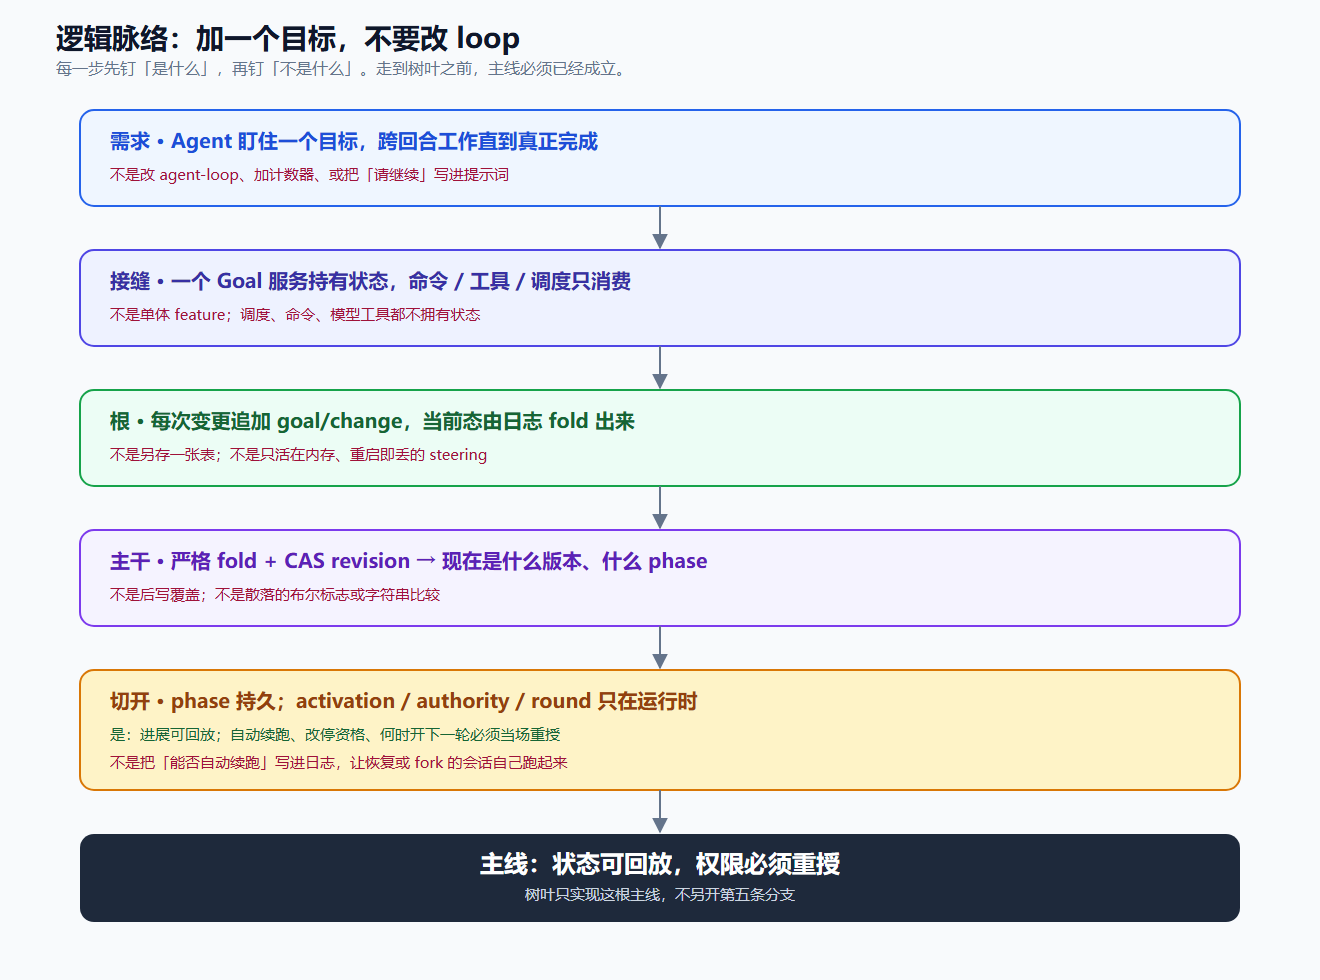
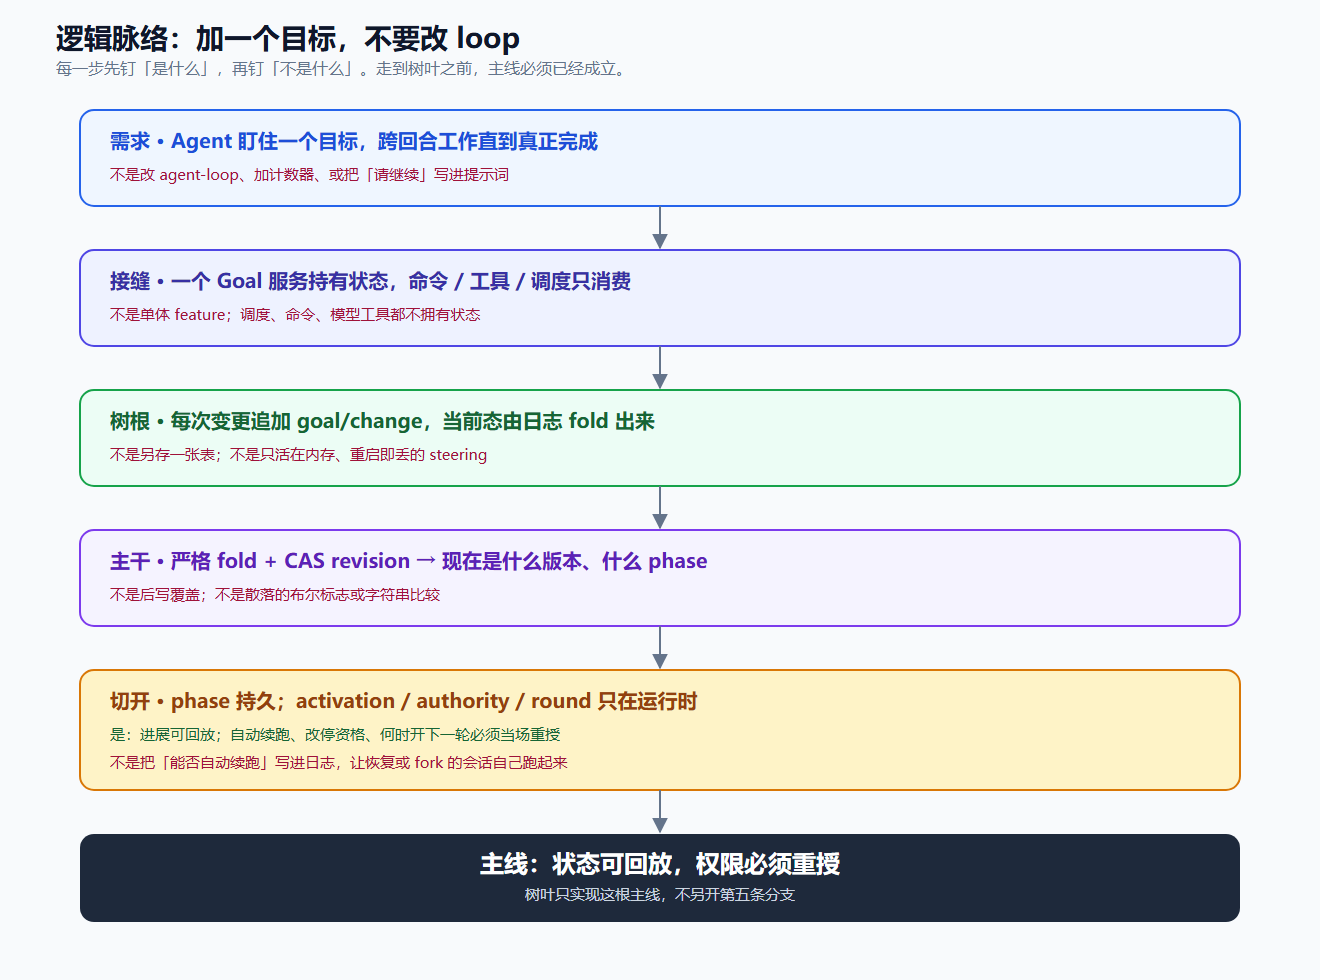
Rename tree layer 根 to 树根 in both skills
The metaphor is now 树根 → 主干 → 分支 → 树叶. Classifier 四根分支 and
root-agent stay unchanged.

Changed region(s): [[0.0932, 0.398, 0.497, 0.4592]]

diff --git a/content/tech-design-to-zhihu/SKILL.md b/content/tech-design-to-zhihu/SKILL.md
@@ -2,12 +2,12 @@
 name: tech-design-to-zhihu
 description: >-
   Write a Zhihu 专栏 from a technical design or architecture analysis. Speak
-  human Chinese, walk 是什么/不是什么 then the thread then 根/主干/分支/树叶, emit as many
+  human Chinese, walk 是什么/不是什么 then the thread then 树根→主干→分支→树叶, emit as many
   PNG figures as the argument needs (Zhihu has no mermaid/SVG), open with a
   TL;DR, close with 收获和结论 plus PS/PPS/PPPS. Use when the user asks 写成知乎文章,
   技术设计稿转知乎, 知乎长文, 知乎没有 mermaid, 说人话, 多图, TL;DR, 收获和结论, or PS PPS.
   Not a design skill — that is goal-design-principles.
-version: 1.2.0
+version: 1.2.1
 metadata:
   category: content
   created_by: agent
@@ -37,11 +37,11 @@ metadata:
 
 上一步没钉住，后面段落会散。
 
-1. **读源** — 抽出主线、是什么/不是什么、树（根/主干/分支/树叶）。源是采石场，不是逐句脚本。
+1. **读源** — 抽出主线、是什么/不是什么、树（树根 → 主干 → 分支 → 树叶）。源是采石场，不是逐句脚本。
 2. **TL;DR** — 标题下立刻给 3–5 条。扫完能走。每条一句人话，可与收获对应，但更短。
 3. **开口** — 一句人话钉主线。不要「本文拆解 packages/…」。
 4. **错路对照** — 读者的第一反应往往是错的。先画错路，再画正路。
-5. **脉络图** — 需求 → 接缝 → 根 → 主干 → 切开。每步口头说「是什么 / 不是什么」。
+5. **脉络图** — 需求 → 接缝 → 树根 → 主干 → 切开。每步口头说「是什么 / 不是什么」。
 6. **整棵树** — 每层回答一个问题。红字是「不是什么」。
 7. **按枝往下讲** — 每根分支：短段人话 → 一张图 → 必要时再补一张「人话放大图」（CAS、两本账、证据先行…）。
 8. **收获和结论** — 必写。收获是能搬走的判断（通常 5–7 条，配总图）。结论把主线再说一遍，落到读者能用的切割上。不要新开论点。
@@ -64,7 +64,7 @@ metadata:
               └── 错路 / 正路          图
                     └── 脉络            图 + 短表
                           └── 树全貌     图
-                                ├── 根 / 主干     图
+                                ├── 树根 / 主干     图
                                 ├── phase / activation
                                 ├── authority
                                 └── round / 证据
@@ -148,4 +148,4 @@ metadata:
 |---|---|---|
 | 给谁 | 要设计 / 实现长期目标的 agent | 要把设计稿写成知乎专栏的 agent |
 | 产出 | 检查清单、接缝、CAS、phase≠activation | `article.md` + PNG + `PUBLISH.md` |
-| 结构 | 脉络 + 是什么/不是什么 + 树（给实现用） | 同一骨架，改写成说人话、多图、带收获 |
+| 结构 | 脉络 + 是什么/不是什么 + 树根→主干→分支→树叶 | 同一骨架，改写成说人话、多图、带收获 |

diff --git a/agents/goal-design-principles/SKILL.md b/agents/goal-design-principles/SKILL.md
@@ -1,7 +1,7 @@
 ---
 name: goal-design-principles
-description: Design a goal subsystem as a harness, not a loop patch — walk the thread (需求→接缝→根→主干→切开), then pin 是什么/不是什么 on root, trunk, and four orthogonal branches (phase, activation, authority, round). Use when designing or implementing a long-running goal/objective, splitting it into plugins, choosing event sourcing vs a row store, separating phase from activation, wiring CAS or live permission, or asking how DSH/deepseek-harness packages/goal is structured (根/主干/分支/树叶, 是什么/不是什么). Pair with goal-persistence for the product contract.
-version: 1.1.0
+description: Design a goal subsystem as a harness, not a loop patch — walk the thread (需求→接缝→树根→主干→切开), then pin 是什么/不是什么 on 树根, trunk, and four orthogonal branches (phase, activation, authority, round). Use when designing or implementing a long-running goal/objective, splitting it into plugins, choosing event sourcing vs a row store, separating phase from activation, wiring CAS or live permission, or asking how DSH/deepseek-harness packages/goal is structured (树根→主干→分支→树叶, 是什么/不是什么). Pair with goal-persistence for the product contract.
+version: 1.1.1
 metadata:
   category: agents
   created_by: agent
@@ -31,7 +31,7 @@ If a step's **不是什么** is what you built, later leaves will split in the s
 |---|---|---|
 | Need | Agent holds one objective across turns until genuinely complete | Patch `agent-loop`, add a counter, or put "please continue" in the prompt |
 | Seam | One Goal service owns state; command / tool / driver consume it | A monolith; consumers each keep a copy |
-| Root | Every mutation appends `goal/change`; current state is a fold | A side table; in-memory steering that dies on restart |
+| 树根 | Every mutation appends `goal/change`; current state is a fold | A side table; in-memory steering that dies on restart |
 | Trunk | Strict fold + CAS → what version, what phase | Last-write-wins; scattered booleans |
 | Cut | `phase` is durable; activation / authority / round are runtime-only | Logging "may auto-continue" so restore/fork resume by themselves |
 
@@ -40,15 +40,17 @@ Cross-cutting (not a fifth branch): capability seam, branded `GoalId`, Config th
 ## Tree — 是什么 / 不是什么 per layer
 
 ```
-session log                          root
-    └── lifecycle state machine      trunk
+session log                          树根
+    └── lifecycle state machine      主干
             ├── phase                durable progress
             ├── activation           process-local "may auto-continue"
             ├── authority            live "who may mutate / stop"
             └── round                when to continue, how to anti-drift
 ```
 
-### Root · session log
+Layers in order: **树根 → 主干 → 分支 → 树叶**.
+
+### 树根 · session log
 
 Answers: what is true after replay?
 
